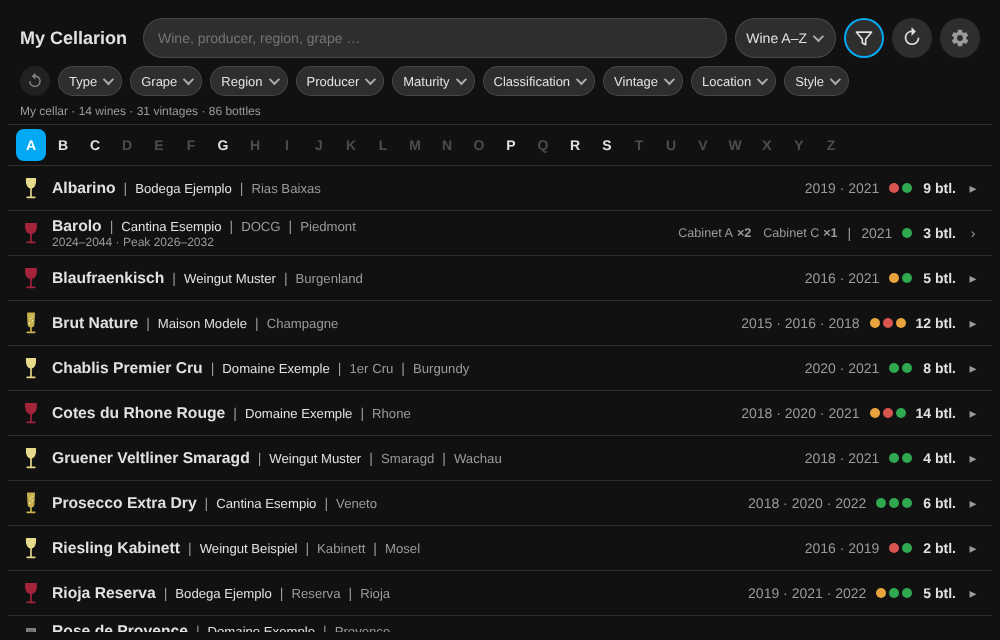
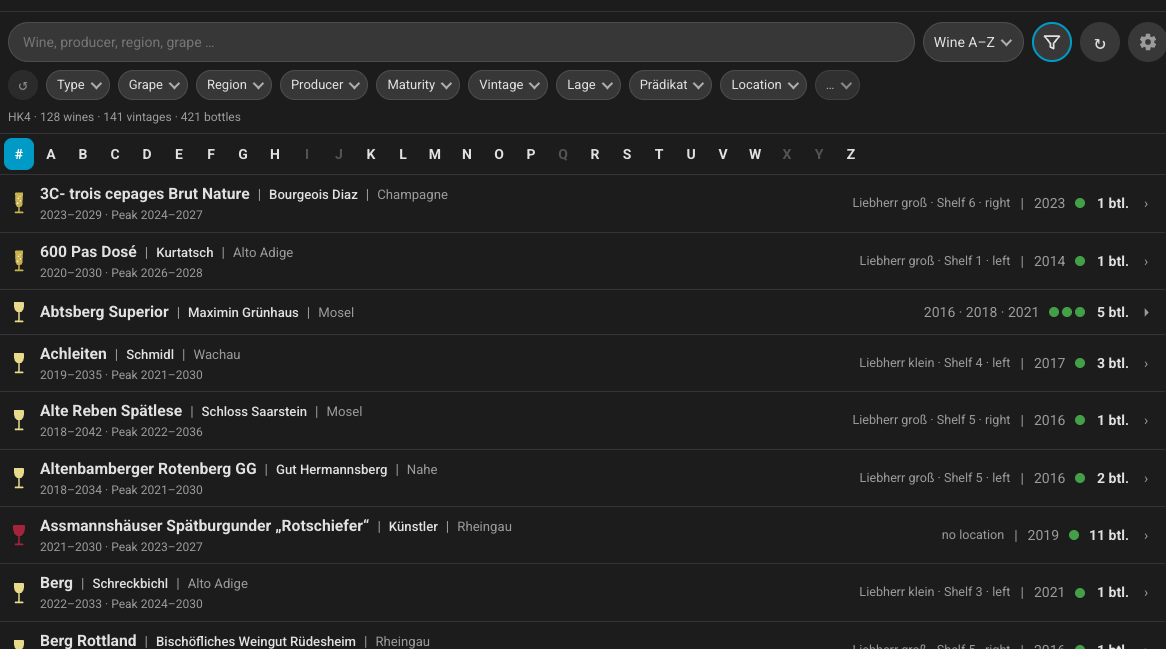
README: real screenshots (list, filters, details, settings, producer sort words)

diff --git a/README.md b/README.md
@@ -7,10 +7,15 @@ a searchable, filterable view of your cellar with bottle details, storage places
 >
 > **Heads-up:** this project was built entirely by vibe coding with Claude (Anthropic). If that is not your thing, please don't install it.
 
-![Inventory list](docs/list.png)
-![Bottle details](docs/detail.png)
+<p align="center">
+  <img src="docs/list.png" alt="Inventory list" width="780"><br>
+  <img src="docs/filters.png" alt="Filters and A-Z index" width="780"><br>
+  <img src="docs/detail.png" alt="Bottle details" width="420">
+  <img src="docs/settings.png" alt="Settings" width="340">
+  <img src="docs/producers.png" alt="Producer sort words" width="340">
+</p>
 
-*Screenshots show made-up sample wines.*
+*Desktop/tablet layout; a phone layout is included too.*
 
 ## What you get
 
